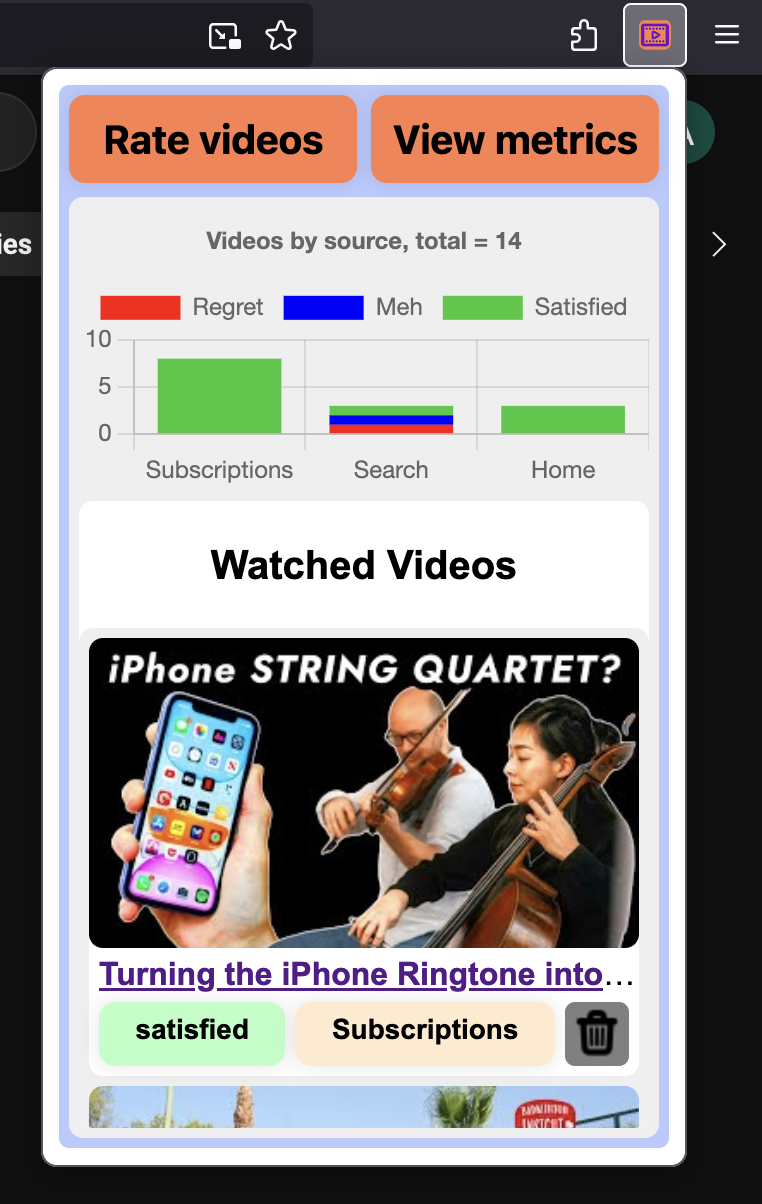
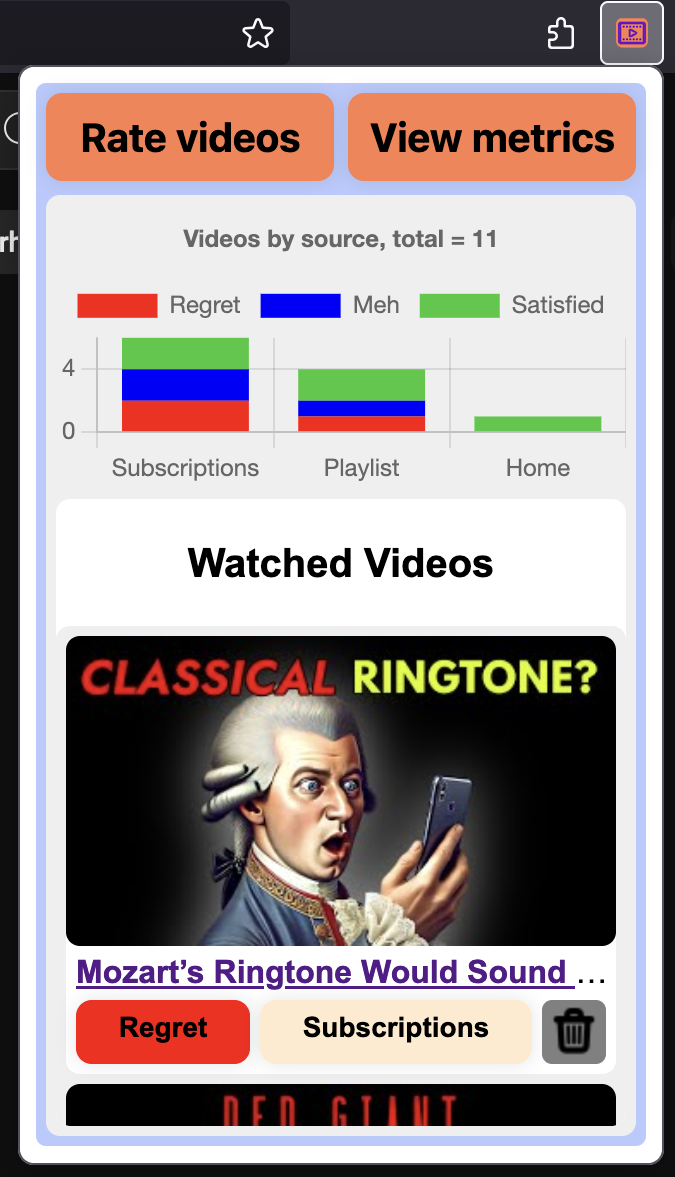
fixed metrics page

diff --git a/YouTubeSatisfactionMeter/popup/popup.js b/YouTubeSatisfactionMeter/popup/popup.js
@@ -1,4 +1,40 @@
 /*
+Show/hide rating and metrics sections
+*/
+  
+const ratingSelector = document.getElementById("rating-selector");
+const ratingSectionWrapper = document.getElementById("rating-section-wrapper");
+
+const metricsSelector = document.getElementById("metrics-selector");
+const metricsSectionWrapper = document.getElementById("metrics-section-wrapper");
+
+ratingSelector.addEventListener(
+    "click",
+    () => {
+        if (ratingSectionWrapper.classList.contains("hidden")) {
+            metricsSectionWrapper.classList.add("hidden");
+            updateRateVideoWrapper();
+            ratingSectionWrapper.classList.remove("hidden");
+        } else {
+            ratingSectionWrapper.classList.add("hidden");
+        }
+    }
+)
+
+metricsSelector.addEventListener(
+    "click",
+    () => {
+        if (metricsSectionWrapper.classList.contains("hidden")) {
+            ratingSectionWrapper.classList.add("hidden");
+            updateMetricsSection();
+            metricsSectionWrapper.classList.remove("hidden");            
+        } else {
+            metricsSectionWrapper.classList.add("hidden");
+        }
+    }
+)
+
+/*
 Video and display utils
 */
 async function getVideos() {
@@ -42,7 +78,7 @@ async function updateMetricsSection() {
     const ctx = document.getElementById('metrics-canvas').getContext('2d');
     ctx.width = 400;
     ctx.height = 1000;
-    chart = new Chart(ctx, { type: 'bar' });
+    const chart = new Chart(ctx, { type: 'bar' });
     updateChart(ratedVideos, chart);
     var wrapper = document.createElement("div");
     wrapper.classList.add("video-section-wrapper");
@@ -62,12 +98,13 @@ function constructMetricsVideos(videos, wrapper) {
 
 function constructViewVideoWrapper(video) {
     const c = `view-${video.rating}-rating`;
-    wrapper = document.createElement("div");
+    const wrapper = document.createElement("div");
     wrapper.classList.add("rate-video-wrapper");
+    const map = { regret: "Regret", meh: "Meh", satisfied: "Satisfied"};
     wrapper.innerHTML = `
     ${getVideoHeading(video)}
     <div class="rating-wrapper">
-        <div class="${c}">${video.rating}</div>
+        <div class="${c}">${map[video.rating]}</div>
         <div class="access-type-button">${video.accessMethod}</div>
         <div class="remove-video-wrapper">
             <input type="image" src="../icons/trash.png" video-id="${video.id}"/>
@@ -100,7 +137,7 @@ async function updateRateVideoWrapper() {
 }
 
 function constructRateVideoWrapper(video) {
-    wrapper = document.createElement("div");
+    const wrapper = document.createElement("div");
     wrapper.classList.add("rate-video-wrapper");
     wrapper.innerHTML = `
     ${getVideoHeading(video)}
@@ -185,7 +222,7 @@ function updateChart(videos, chart) {
             },
         ]
     };
-    options = {
+    const options = {
         scale: {
             ticks: {
                 precision:0
@@ -212,38 +249,3 @@ function updateChart(videos, chart) {
     chart.update();
 }
 
-/*
-Show/hide rating and metrics sections
-*/
-  
-ratingSelector = document.getElementById("rating-selector");
-ratingSectionWrapper = document.getElementById("rating-section-wrapper");
-
-metricsSelector = document.getElementById("metrics-selector");
-metricsSectionWrapper = document.getElementById("metrics-section-wrapper");
-
-ratingSelector.addEventListener(
-    "click",
-    () => {
-        if (ratingSectionWrapper.classList.contains("hidden")) {
-            metricsSectionWrapper.classList.add("hidden");
-            updateRateVideoWrapper();
-            ratingSectionWrapper.classList.remove("hidden");
-        } else {
-            ratingSectionWrapper.classList.add("hidden");
-        }
-    }
-)
-
-metricsSelector.addEventListener(
-    "click",
-    () => {
-        if (metricsSectionWrapper.classList.contains("hidden")) {
-            ratingSectionWrapper.classList.add("hidden");
-            updateMetricsSection();
-            metricsSectionWrapper.classList.remove("hidden");            
-        } else {
-            metricsSectionWrapper.classList.add("hidden");
-        }
-    }
-)

diff --git a/YouTubeSatisfactionMeter/background.js b/YouTubeSatisfactionMeter/background.js
@@ -16,13 +16,13 @@ browser.tabs.onUpdated.addListener(
             var prev = "";
             if (prevUrls[tabId] != null) {
                 if (prevUrls[tabId] != tab.url && videoRegex.test(url)) {
-                    var prev = prevUrls[tabId];
+                    prev = prevUrls[tabId];
                 }
             } else if (tab.openerTabId != null && videoRegex.test(url)) {
                 const openerTab = await browser.tabs.get(tab.openerTabId);
-                var prev = openerTab.url;
+                prev = openerTab.url;
             } else if (videoRegex.test(tab.url)) {
-                var prev = changeInfo.url;
+                prev = changeInfo.url;
             }
             setTimeout(async () => {
                 var newTab = await browser.tabs.get(tabId);
@@ -67,7 +67,7 @@ async function handleVideo(prevUrl, videoUrl, title) {
             name: "Channel",
         }
     ];
-    var accessMethod = "link";
+    var accessMethod = "Link";
     categories.forEach((category) => {
         if (category.regex.test(prevUrl)) {
             accessMethod = category.name;
